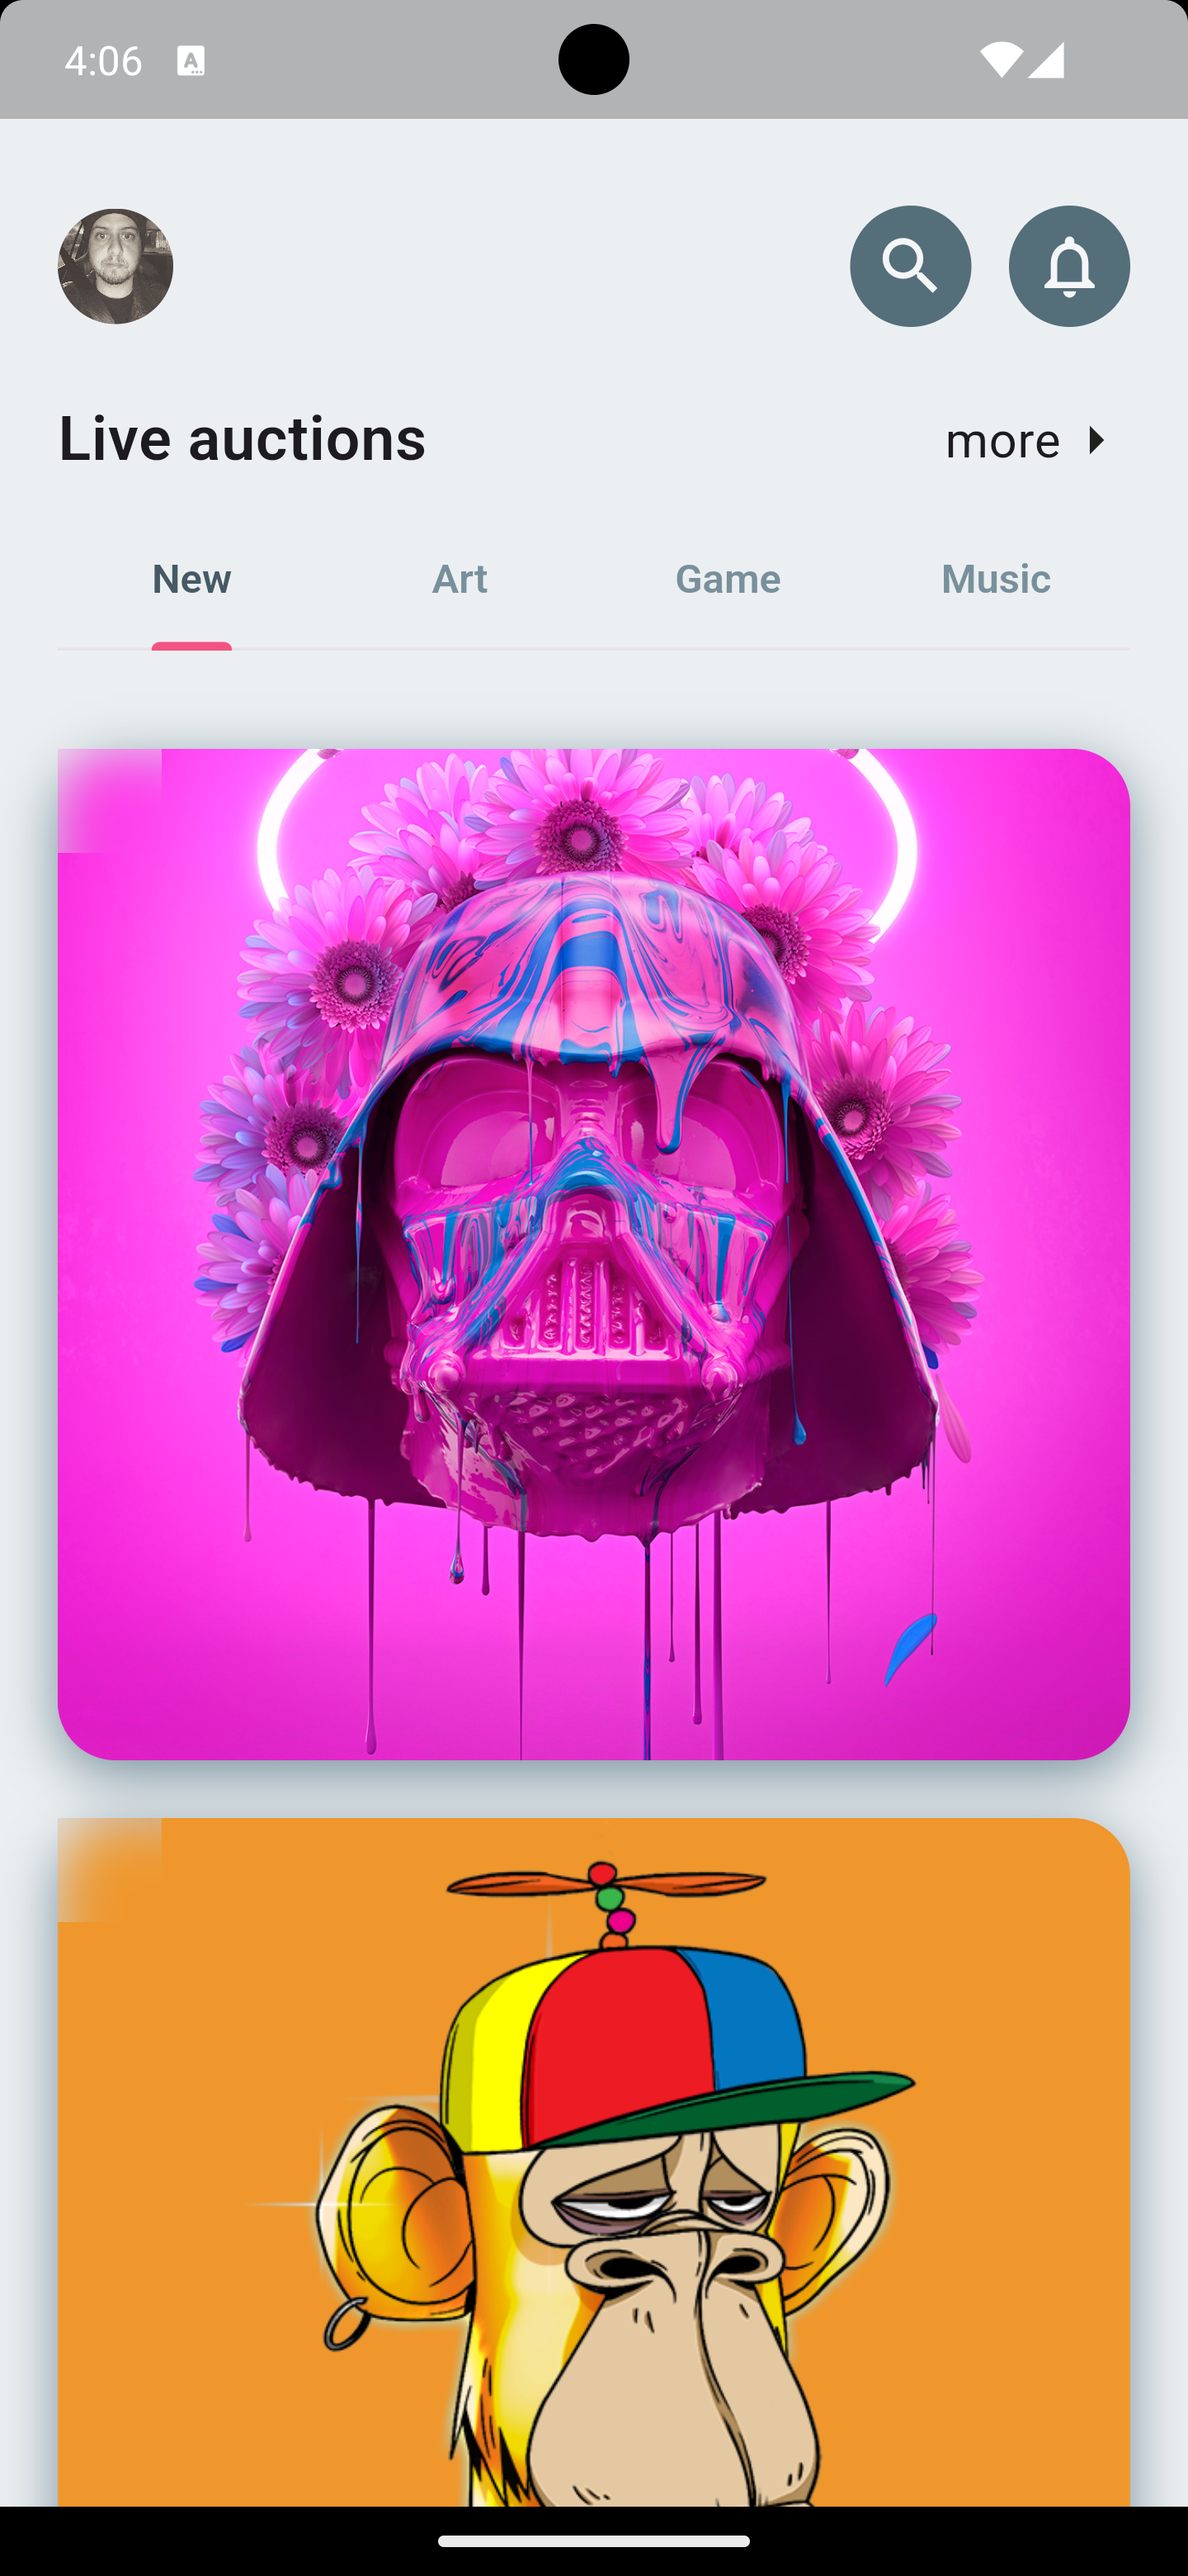
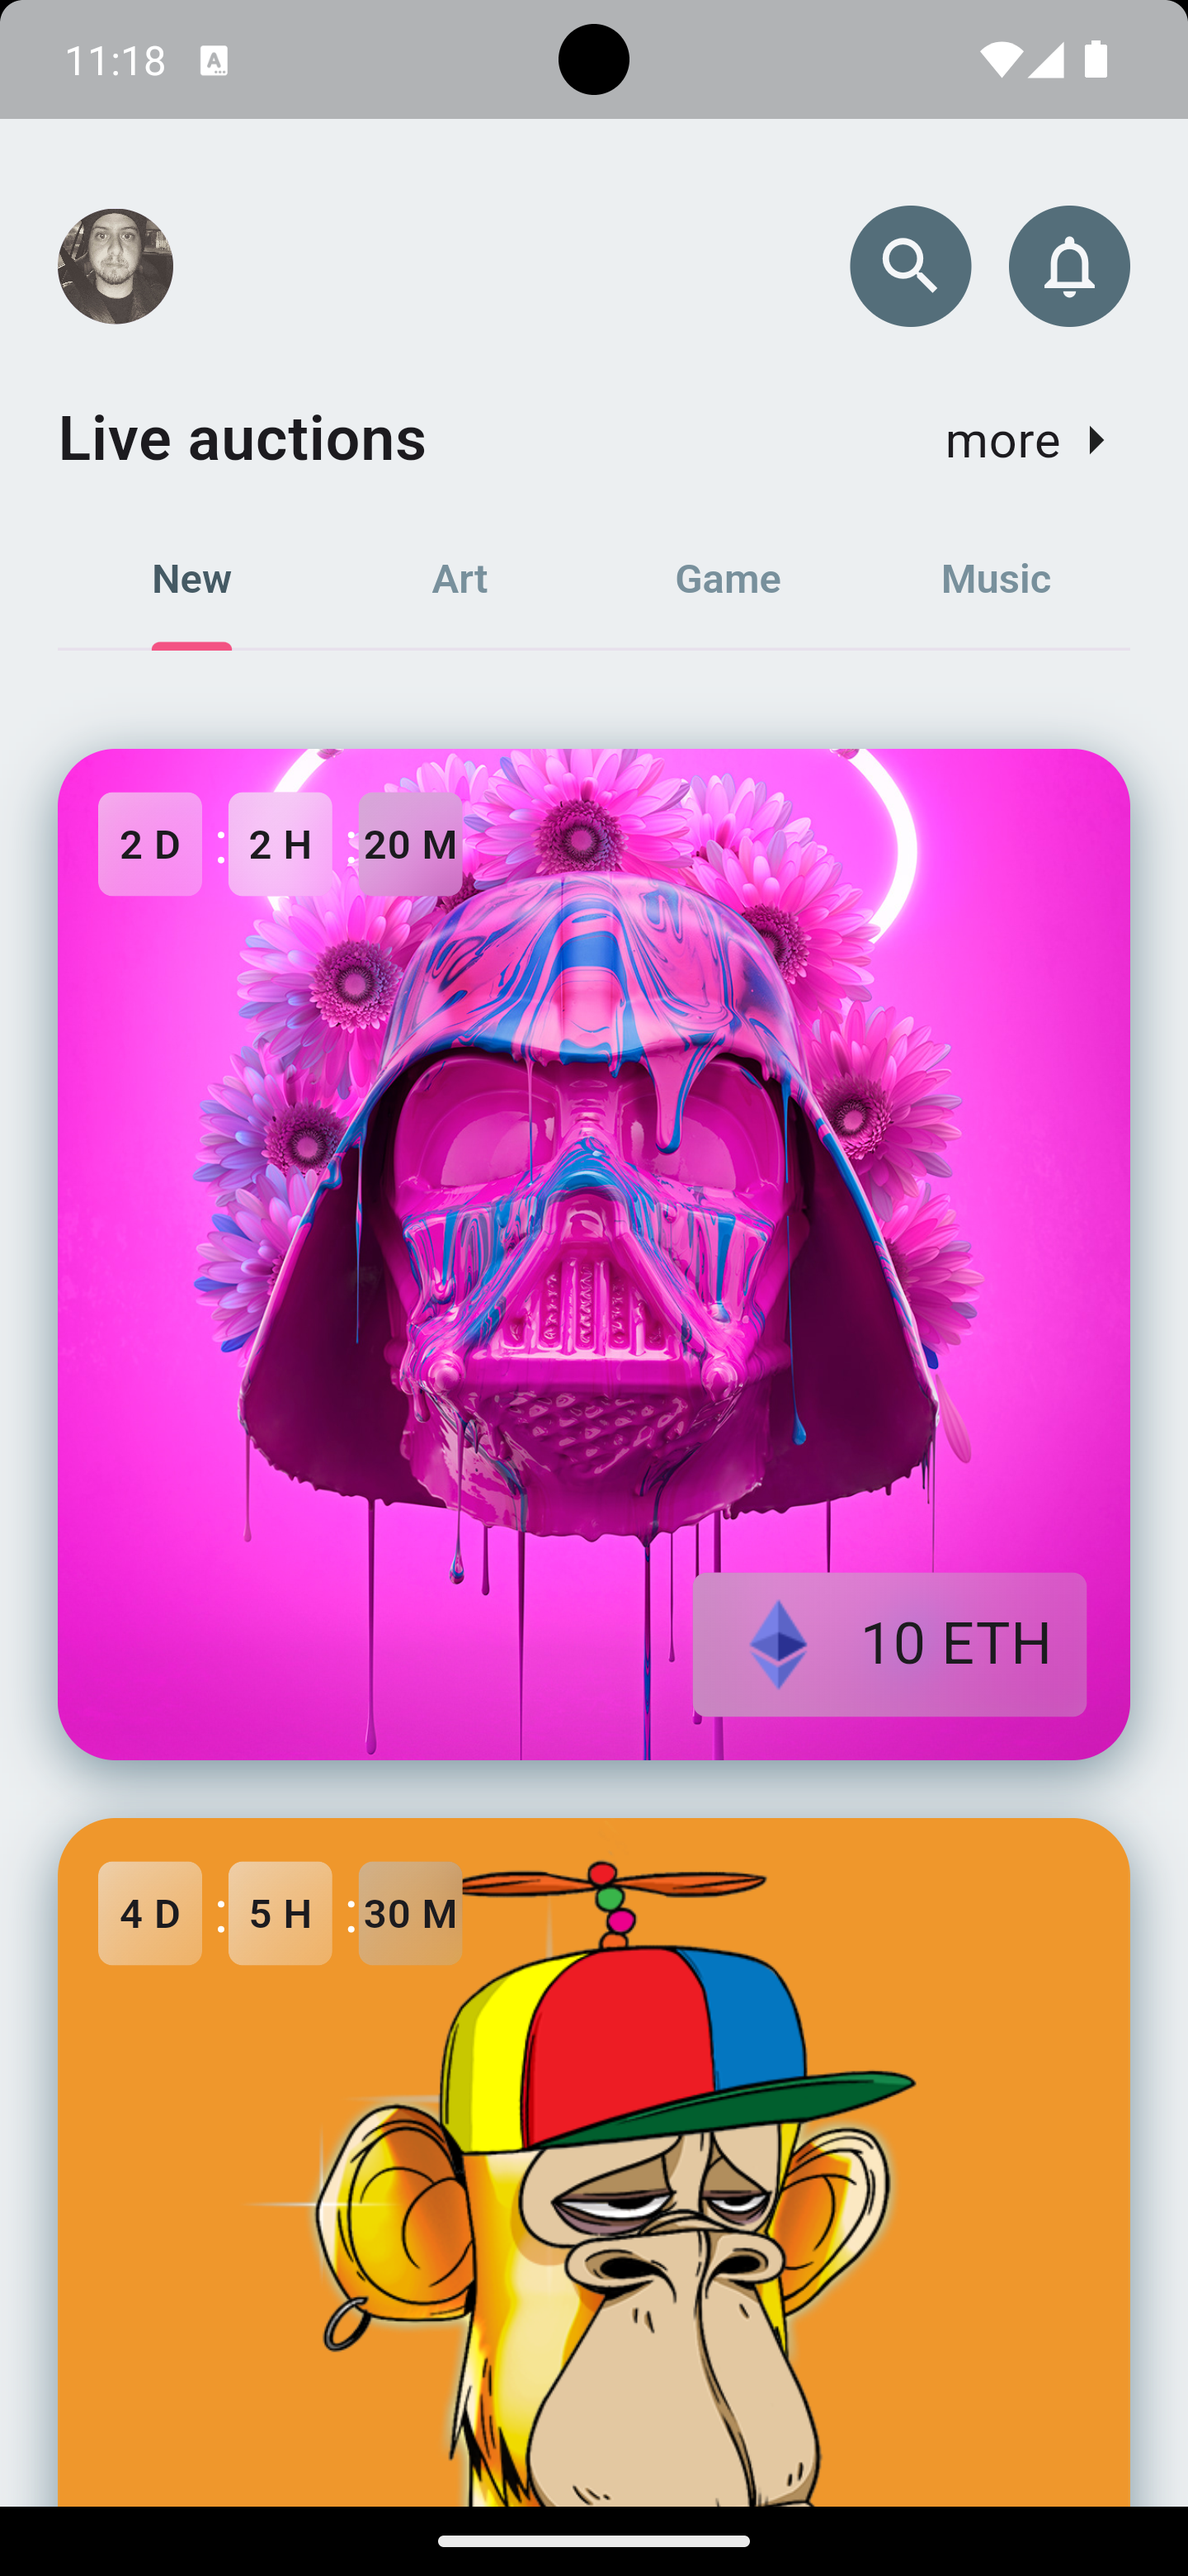
updates in new screen post page

diff --git a/lib/pages/post_page.dart b/lib/pages/post_page.dart
@@ -170,21 +170,29 @@ class _PostPageState extends State<PostPage> {
                             decoration: BoxDecoration(
                               borderRadius: BorderRadius.circular(5),
                               gradient: LinearGradient(
-                                begin: Alignment.topLeft,
-                                end: Alignment.bottomRight,
+                                begin: Alignment.centerLeft,
+                                end: Alignment.centerRight,
                                 colors: [
                                   CardColor.primaryColor.withOpacity(0.6),
                                   CardColor.primaryColor.withOpacity(0.3),
                                 ],
                               ),
                             ),
-                            child: Row(
-                              children: [
-                                Image.asset('lib/assets/et.png'),
-                                Text(
-                                  '${widget.price} ETH',
-                                ),
-                              ],
+                            child: Padding(
+                              padding: const EdgeInsets.symmetric(vertical: 8),
+                              child: Row(
+                                mainAxisAlignment:
+                                    MainAxisAlignment.spaceEvenly,
+                                children: [
+                                  Image.asset('lib/assets/et.png'),
+                                  Text(
+                                    '${widget.price} ETH',
+                                    style: const TextStyle(
+                                      fontSize: 20,
+                                    ),
+                                  ),
+                                ],
+                              ),
                             ),
                           ),
                         ),

diff --git a/lib/pages/home_page.dart b/lib/pages/home_page.dart
@@ -26,23 +26,35 @@ class _HomePageState extends State<HomePage>
   @override
   Widget build(BuildContext context) {
     return Scaffold(
-        backgroundColor: BackGround.primaryColor,
-        body: SafeArea(
-          child: SingleChildScrollView(
-            child: Column(
-              children: [
-                const SizedBox(height: 30),
-                app_bar(),
-                const SizedBox(height: 24),
-                more(),
-                const SizedBox(height: 10),
-                tabbar(),
-                const SizedBox(height: 24),
-                ...postGenerate(),
-              ],
+      backgroundColor: BackGround.primaryColor,
+      body: SafeArea(
+        child: Stack(
+          alignment: AlignmentDirectional.bottomCenter,
+          children: [
+            Container(
+              child: SingleChildScrollView(
+                child: Column(
+                  children: [
+                    const SizedBox(height: 30),
+                    app_bar(),
+                    const SizedBox(height: 24),
+                    more(),
+                    const SizedBox(height: 10),
+                    tabbar(),
+                    const SizedBox(height: 24),
+                    ...postGenerate(),
+                  ],
+                ),
+              ),
             ),
-          ),
-        ));
+            Padding(
+              padding: const EdgeInsets.symmetric(horizontal: 25, vertical: 15),
+              child: Container(),
+            )
+          ],
+        ),
+      ),
+    );
   }
 
   List<Widget> postGenerate() {
